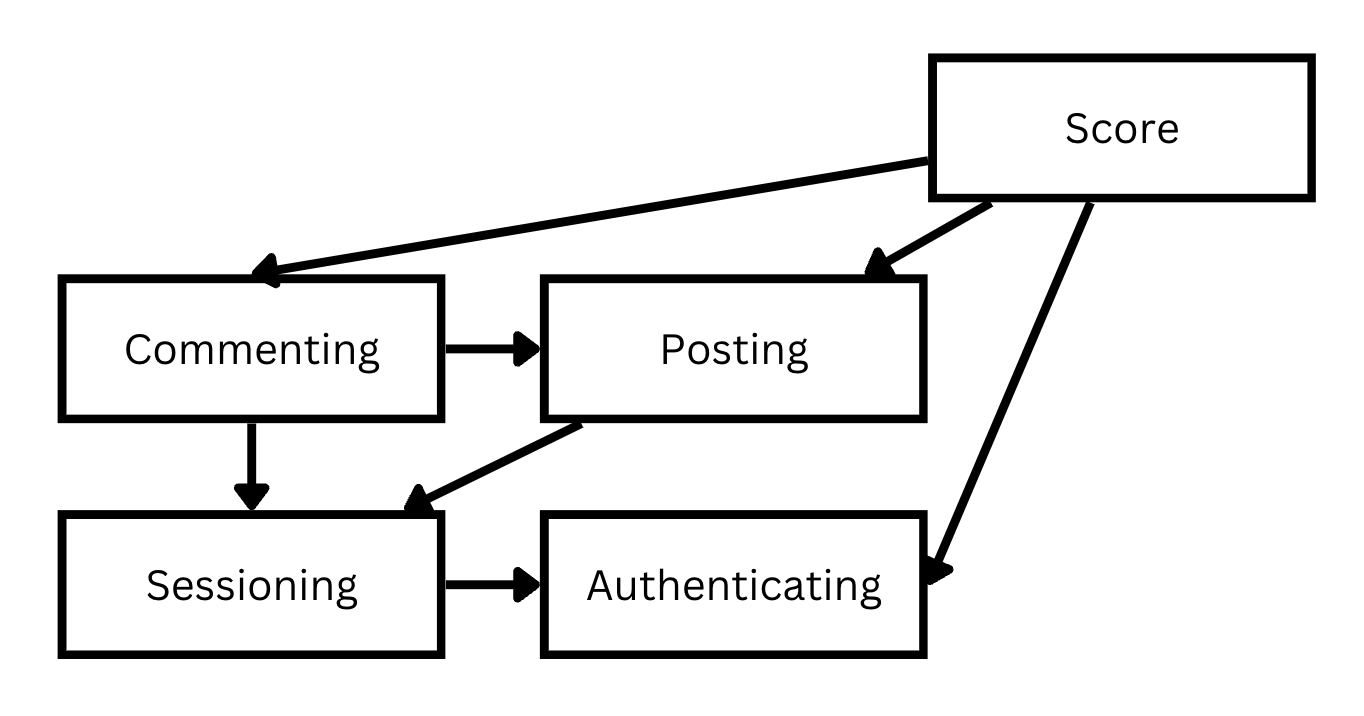
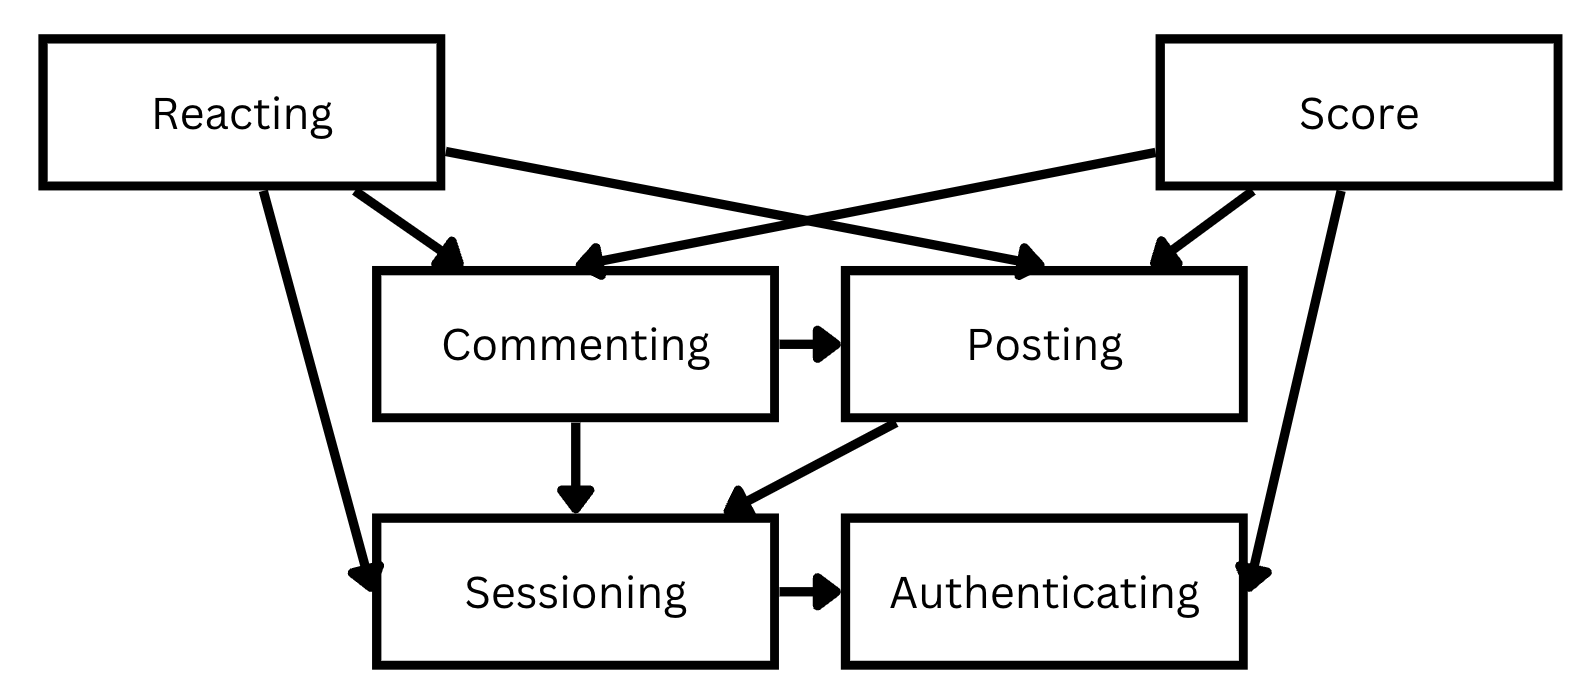
Assigment 3: Added wireframes and tradeoffs, added 6th concept Reaction

Changed region(s): [[0.0, 0.03, 0.9853, 0.96], [0.7698, 0.15, 0.893, 0.21], [0.0924, 0.15, 0.2155, 0.21]]

diff --git a/docs/assignments/assignment3.md b/docs/assignments/assignment3.md
@@ -68,7 +68,7 @@ Allows users to stay authenticated for an extended period of time.
 
 #### Operational Principle
 
-After a session strts and before it ends, the getUser action returns the currently authenticated user that was identified at the start of the session.
+After a session starts and before it ends, the getUser action returns the currently authenticated user that was identified at the start of the session.
 
 #### State
 
@@ -110,7 +110,7 @@ While posting is a overall generic concept, Rely would use the average/historica
 
 #### Operational Principle
 
-A post containing content can be created associated with an user. A post can be deleted after it is created. getUserPosts returns all created-but-not-deleted-yet posts associated with an user. getUser returns the user of a created-but-not-deleted-yet post.
+A post containing content can be created associated with an user. A post can be deleted after it is created. getUserPosts returns all not-deleted posts associated with an user. getUser returns the user of a not-deleted post.
 
 #### State
 
@@ -155,11 +155,11 @@ posts -= p
 
 Allows users to comment on items (a generic datatype).
 
-While commenting is a overall generic concept, Rely would use sentiment analysis on comments (as well as factoring how reliable the commenter is) to get the overall reliability score of a post, allowing other users to easily see how reliable a post is at a glance. However, this is only relevant during implementation, so the Commenting concept is kept generic.
+While commenting is a overall generic concept, Rely would use sentiment analysis on comments (as well as considering how reliable the commenter is) to get the overall reliability score of a post, allowing other users to easily see how reliable a post is at a glance. However, this is only relevant during implementation, so the Commenting concept is kept generic.
 
 #### Operational Principle
 
-A comment containing content can be created associated with an user and referencing an item. A comment can be deleted after it is created. getItemComments returns all created-but-not-deleted-yet comments that reference an item. getUserComments returns all created-but-not-deleted-yet comments associated with an user.
+A comment containing content can be created associated with an user and referencing an item. A comment can be deleted after it is created. getItemComments returns all not-deleted comments that reference an item. getUserComments returns all not-deleted comments associated with an user.
 
 #### State
 
@@ -253,6 +253,65 @@ s in scores
 scores -= s
 ```
 
+### Concept 6: Reacting [User, Item]
+
+#### Purpose
+
+Allows users to react to items. 
+
+While Reacting is a generic concept, Rely would use the sentiment of reactions (likes, dislikes, etc) to calculate the overall reliability score of a post or comment, allowing other users to easily see how reliable a post or comment is at a glance. The reactions on a user would also be used to determine their user reliability score. However, this is only relevant during implementation, so the Reacting concept is kept generic, where any user react in any way to any item.
+
+#### Operational Principle
+
+A reaction can be created associated with an user and an item. A reaction can be deleted after it is created. getUserReactions returns all not-deleted reactions associated with an user. getItemReactions returns all not-deleted reactions associated with an item. getUser returns the user of a not-deleted reaction.
+
+#### State
+
+reactions: **set** Reaction
+
+user: reactions -> **one** User
+
+item: reactions -> **one** Item
+
+type: reactions -> **one** String
+
+#### Actions
+
+react (u: User, i: Item, t: String, **out** r: Reaction)
+```
+r not in reactions
+reactions += r
+r.user := u
+r.item := i
+r.type := t
+```
+
+getUserReactions (u: User, **out** rs: **set** Reaction)
+```
+for reaction in reactions:
+    if reaction.user == u:
+        rs += reaction
+```
+
+getItemReactions (i: Item, **out** rs: **set** Reaction)
+```
+for reaction in reactions:
+    if reaction.item == i:
+        rs += reaction
+```
+
+getUser (r: Reaction, **out** u: User)
+```
+r in reactions
+u := r.user
+```
+
+deleteReaction (r: Reaction)
+```
+r in reactions
+reactions -= r
+```
+
 ### Syncronizations
 
 Clarifications for syncronizations:
@@ -271,6 +330,7 @@ app Rely
     include Posting[Sessioning.Session, Content]
     include Commenting[Sessioning.Session, Content, Posting.Post], Commenting[Sessioning.Session, Content, Commenting.Comment]
     include Score[Posting.Post], Score[Commenting.Comment], Score[Authenticating.User]
+    include Reacting[Sessioning.Session, Posting.Post], Reacting[Sessioning.Session, Commenting.Comment]
 
     sync register (username: String, password: String, **out** user: User, **out** userScore: Score):
         Authenticating.register(username, password, user)
@@ -292,36 +352,51 @@ app Rely
         Score.createScore(post, DEFAULT_INITIAL_SCORE, postScore)
 
     sync deletePost (session: Session, post: Post, **out** user: User):
-        when authenticate(session, user)
+        when authenticate(session, user) // check if user is logged in
         Posting.getUser(post, user)
         if user == post.user:
             Posting.deletePost(post)
+            Score.deleteScore(post)
     
     sync createComment (session: Session, content: Content, item: Item, **out** user: User, **out** comment: Comment, **out** commentScore: Score):
-        when authenticate(session, user)
+        when authenticate(session, user) // check if user is logged in
         Commenting.createComment(user, content, item, comment)
         Score.createScore(comment, DEFAULT_INITIAL_SCORE, commentScore)
     
     sync deleteComment (session: Session, comment: Comment, **out** user: User):
-        when authenticate(session, user)
+        when authenticate(session, user) // check if user is logged in
         Commenting.getUser(comment, user)
         if user == comment.user:
             Commenting.deleteComment(comment)
+            Score.deleteScore(comment)
+    
+    sync react (session: Session, item: Item, type: String, **out** user: User, **out** reaction: Reaction):
+        when authenticate(session, user) // check if user is logged in
+        Reacting.react(user, item, type, reaction)
+    
+    sync unReact (session: Session, reaction: Reaction, **out** user: User):
+        when authenticate(session, user) // check if user is logged in
+        Reacting.getUser(reaction, user)
+        if user == reaction.user:
+            Reacting.deleteReaction(reaction)
     
     // This function is run continuously in the background to update the reliability score of all users, since the user's reliability score might change due to events that may occur when they are not logged in.
-    sync updateUserScore (**out** posts: **set** Post, **out** comments: **set** Comment, **out** reliabilityScoreValue: int, **out** userScore: Score):
+    // Note that each user's reliability score depends on the reliability of their posts, comments, and reactions.
+    sync updateUserScore (**out** posts: **set** Post, **out** comments: **set** Comment, **out** reactions: **set** Reaction, **out** reliabilityScoreValue: int, **out** userScore: Score):
         for user in Authenticating.registered:
             Posting.getUserPosts(user, posts)
             Commenting.getUserComments(user, comments)
+            Reacting.getUserReactions(user, reactions)
             calculateReliabilityScore(user, posts, comments, reliabilityScoreValue) // black-box app-level algorithm that is only relevant during implementation and does not interact with the user
             Score.updateScoreValue(userScore, reliabilityScoreValue)
     
     // This function is run continuously in the background to update the reliability score of all posts and comments, since the post/comments's reliability score might change due to events that may occur when the corresponding is not logged in.
-    // Note that each post's score depends on its comments and each comment's score depends on it's nested comments.
-    sync updateItemScore (**out** comments: **set** Comment, **out** reliabilityScoreValue: int, **out** itemScore: Score):
+    // Note that each post's score depends on its comments and reactions. Each comment's score also depends on it's nested comments and reactions.
+    sync updateItemScore (**out** comments: **set** Comment, **out** reactions: **set** Reaction, **out** reliabilityScoreValue: int, **out** itemScore: Score):
         // Update reliability score of all posts and comments
         for item in Posting.posts + Commenting.comments:
             getItemComments(item, comments)
+            getItemReactions(item, reactions)
             calculateReliabilityScore(item, comments, reliabilityScoreValue) // black-box app-level algorithm that is only relevant during implementation and does not interact with the user
             Score.updateScoreValue(itemScore, reliabilityScoreValue)
 
@@ -333,15 +408,26 @@ app Rely
 
 ## Wireframes
 
-text
+The wireframes display all core concepts and actions of the app. For the sake of simplicity, however, redundant functionalities may not always be shown in the wireframes for every user, post, or comment. 
 
-## Design Iteration
+For example, in the wireframes, you are only able to view the profile of certain (but not all) users, since creating a seperate wireframe for every user's profile would be redundant (during implementation of the actual app, you will be able to access the profile of any user). Additionally, nested comments (comments of another comment) are also shown in the wireframes, as it would be basically the same as viewing the comments of a post. You can also only rate some posts, as rating every single post and comment would be redundant (but in the actual app, you would be able to rate every post and comment).
 
-text
+Figma Prototype:  
+https://www.figma.com/proto/RN7SCh2CE93nKFctAg5EAr/A3-Wireframe%3A-Rely?node-id=11-143&t=mlBXDV0pkN6CIL9B-1
+
+Figma Dev Link:  
+https://www.figma.com/design/RN7SCh2CE93nKFctAg5EAr/A3-Wireframe%3A-Rely?node-id=1-59&m=dev&t=nnDWq2TegxYW7Ki5-1
 
 ## Design Tradeoffs
 
-### 1. issue name
+### 1. Likes & Disliks vs. Rating 0-100
 
-text
+One design choice I had to make was how a user can react to a post or comment. I initially wanted to allow users to rate each post and comment from 0-100. This allows users to accurately rate how reliable a piece of content is, but it is less intuitive and easy for users. Thus, I decided to go with likes and dislikes, as it is more user-friendly and easier to understand, while still providing a good amount of nuance when it comes to rating content. Existing platforms like Twitter and Instagram do not have a dislike button, and Reddit has a net upvote/downvote system. Thus, Rely's display of total likes and dislikes would still provide information that other platforms might not provide (since YouTube removed dislike counts). This would also be easy to change into a rating 0-100 system, since the "type" attribute of the Reaction concept can be easily modified to include a rating.
 
+### 2. Reliability Score Calculation
+
+I had to decide whether to include reliability score calculations as a concept or as an app-level feature. I decided to include it as an app-level feature, since the exact formula for calculating the reliability score is only relevant during implementation. The user only sees the scores of each post, comment, and user, but they do not need to see the calculations behind it. Thus, the *calculateReliabilityScore()* function will not be it's own concept since it fits better as an app-level feature. The Score conept serves to store the reliability score of each post, comment, and user, while the *calculateReliabilityScore()* function is used internally to generate these scores.
+
+### 3. Keeping Reactions/Comments when it's parent item is deleted
+
+If the reactions and comments of an item are deleted when the item is deleted, it would be easier to manage the database and prevent orphaned data. However, this would also remove valuable data that could be used to calculate the reliability score of other items, and could also be abused by users to censor other people's reactions/comments or to manipulate other users' reliability scores by deleting their reactions/comments. Thus, while the implementation would have to take into account orphaned data, it would be better to keep the reactions and comments of an item even after it is deleted.
